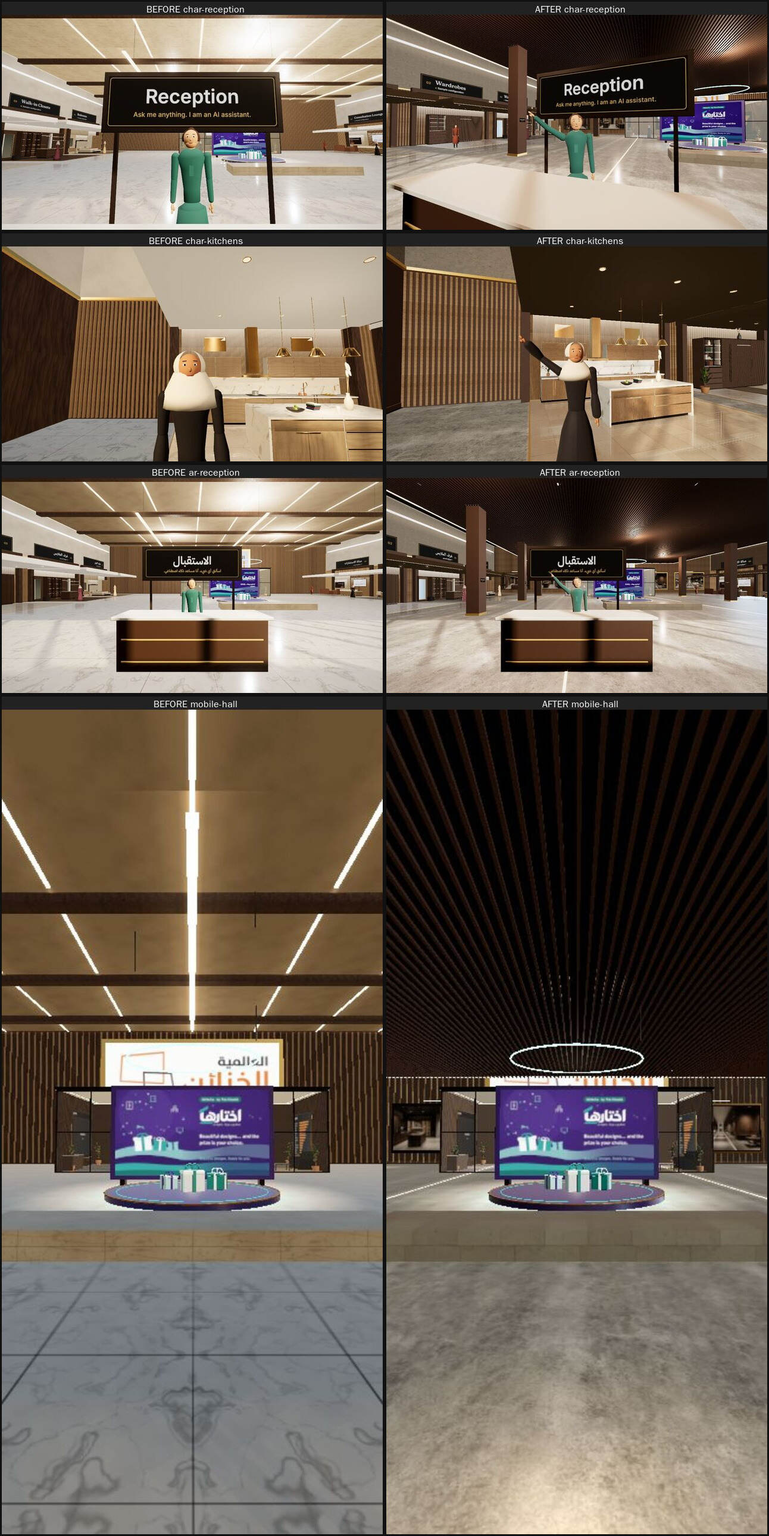
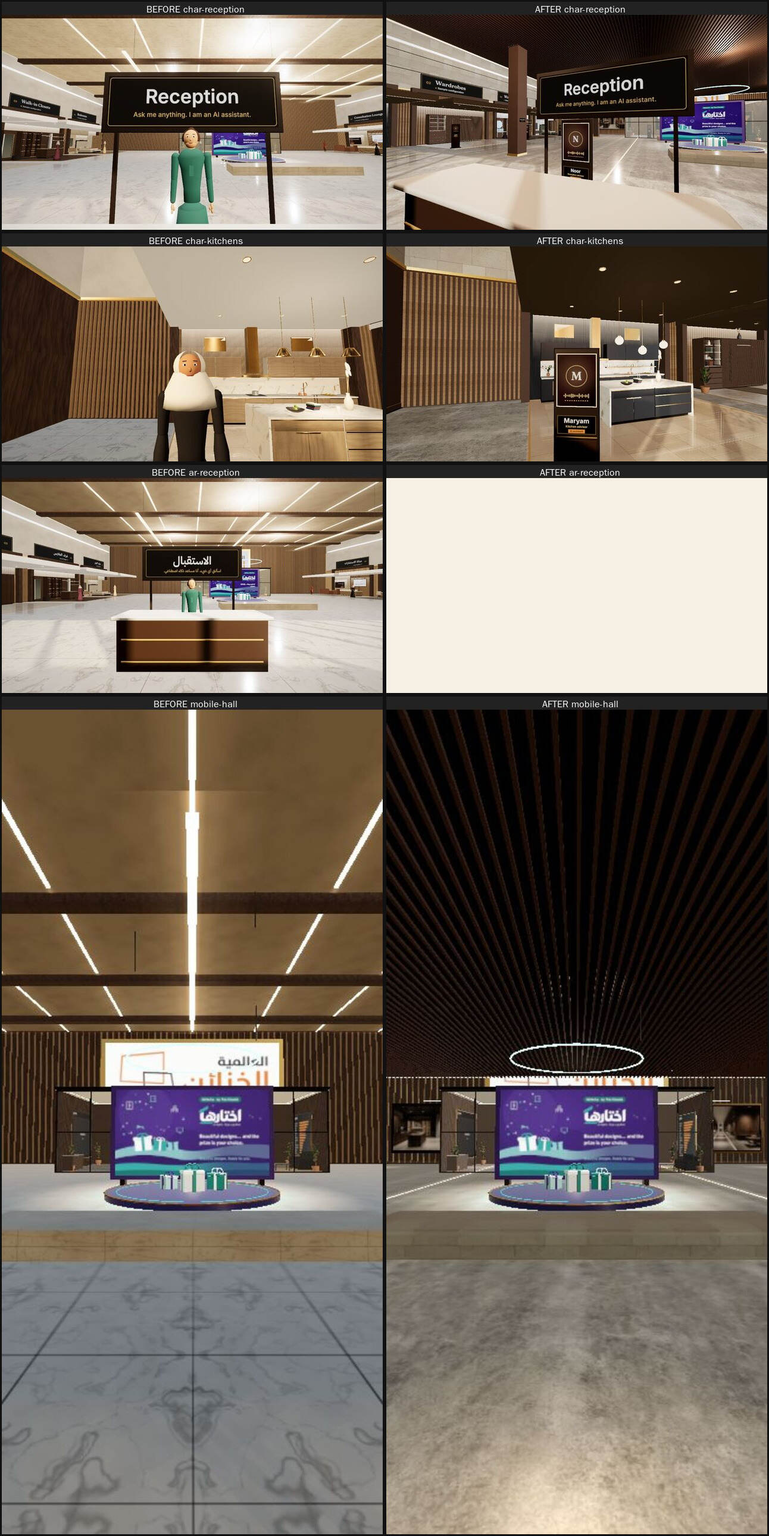
Round 2: kiosk layout, re-shot before/after sheets + desktop tier sheet, REALISM.md round 2 (scores, perf, GLB test recipe, open items), stats
Claude-Session: https://claude.ai/code/session_017ZaR8CiDH3TQygKUjUtw2u

diff --git a/src/showroom3d/staff/kiosk.js b/src/showroom3d/staff/kiosk.js
@@ -8,7 +8,7 @@ import { PALETTE as P, hex, rgba } from '../3d/palette';
 import { portraitUrl } from './config';
 import { FONT } from '../scenes/products/screens';
 
-export const KIOSK = { h: 1.75, w: 0.5, d: 0.08, screen: { w: 0.42, h: 0.56, y: 1.36 }, plate: { w: 0.42, h: 0.2, y: 0.95 }, footprint: { hx: 0.31, hz: 0.18 } };
+export const KIOSK = { h: 1.75, w: 0.5, d: 0.08, screen: { w: 0.42, h: 0.56, y: 1.4 }, plate: { w: 0.42, h: 0.2, y: 0.92 }, footprint: { hx: 0.31, hz: 0.18 } };
 const AR_FONT = "'IBM Plex Sans Arabic','Noto Naskh Arabic',sans-serif";
 const ctx2d = (c) => { try { return c.getContext('2d'); } catch (e) { return null; } };
 const cnv = (w, h) => { const c = document.createElement('canvas'); c.width = w; c.height = h; return c; };
@@ -70,7 +70,7 @@ export function buildKiosk(def, { lang = 'en', q = 1, loader = null } = {}) {
   const sweep = new THREE.Mesh(new THREE.PlaneGeometry(S.w * 0.5, S.h), sweepMat); sweep.position.set(0, S.y, zf + 0.001); sweep.name = 'kiosk-sweep'; sweep.renderOrder = 5; detail.add(sweep);
   const barMat = new THREE.MeshBasicMaterial({ color: new THREE.Color(P.brandOrange).multiplyScalar(1.6), toneMapped: false }), bars = new THREE.InstancedMesh(new THREE.BoxGeometry(0.012, 1, 0.003), barMat, BARS); bars.name = 'kiosk-wave'; bars.frustumCulled = false; detail.add(bars);
   const gc = cnv(q ? 840 : 420, q ? 110 : 55); drawGreet(gc, lang); const greetTex = texOf(gc), greetMat = new THREE.MeshBasicMaterial({ map: greetTex, transparent: true, toneMapped: false, depthWrite: false, opacity: 0 });
-  const greet = new THREE.Mesh(new THREE.PlaneGeometry(PL.w, PL.w * 110 / 840), greetMat); greet.position.set(0, PL.y + PL.h / 2 + 0.035, zf + 0.0005); greet.name = 'kiosk-greet'; detail.add(greet);
+  const greet = new THREE.Mesh(new THREE.PlaneGeometry(PL.w, PL.w * 110 / 840), greetMat); greet.position.set(0, (S.y - S.h / 2 + PL.y + PL.h / 2) / 2, zf + 0.0005);   // centred in the gap between the screen and the name plate greet.name = 'kiosk-greet'; detail.add(greet);
 
   const api = { group: root, kiosk: true, def, label: root.userData.label, meshes: [body, screen, plate, frame, sweep, bars, greet], far: null, farOn: false, awake: 0, hasPortrait: false, portrait: null, joints: {}, scale: 1, q,
     bounds: new THREE.Box3(new THREE.Vector3(-K.footprint.hx, 0, -K.footprint.hz), new THREE.Vector3(K.footprint.hx, K.h, K.footprint.hz)) };

diff --git a/docs/showroom3d/REALISM.md b/docs/showroom3d/REALISM.md
@@ -151,3 +151,71 @@ Each adviser now has a common Arabic first name with her role as subtitle: Noor 
 * Marble, brushed metal, glass and most upholstery are procedural or tinted; product silhouettes are simple extrusions with small bevels.
 * Plants and props are procedural.
 * Characters, see above.
+
+---
+
+# Round 2 (same branch / PR #16)
+
+Owner decisions folded in: advisers become kiosks, signage reads "THE CLOSETS by YAS WOOD", every visit starts in first person. Sheets `screenshots/realism-1..4-*.jpg` were re-shot (the BEFORE column is still the state before round 1) and `realism-6-tiers-desktop.jpg` shows medium (top) and low (bottom) on desktop.
+
+## What changed in round 2
+
+| Area | Change |
+|---|---|
+| Adviser kiosks | `staff/kiosk.js`: a 1.75 m bronze / walnut totem per adviser with a 3:4 portrait screen at eye level, LED frame, name plate (first name, role, orange "AI assistant" label, EN / AR), slow breathing zoom + light sweep when idle, a waveform while she answers, and a greeting line that fades in when the visitor comes near. Nobody walks any more. All staff logic is unchanged (Talk button, T / E, greeting once, chat, take-me-to, VIP hook, colliders, far LOD = 3 draw calls). `staff/config.js`: `STAFF_MODE = 'kiosk'` (default) or `'character'`; `?staff=character` previews the 3D characters, which stay in the repo with the GLB adapter. |
+| Portraits | Loaded from `/yas-bloom/staff/<adviserId>.webp` (3:4, about 768 x 1024, <= 120 KB). **No portrait file exists yet**, so every kiosk currently shows the non-human fallback (monogram on a soft gradient with a waveform); a missing or broken file can never show a broken image. The chat header shows the portrait thumbnail and the note "AI-generated portrait" only once a portrait has really loaded; otherwise the monogram and no note. |
+| Signage | Column plates: "THE CLOSETS / by YAS WOOD" (Arabic "الخزائن / من ياس وود"). Hall back wall and facade: the real logo image is untouched, with "by YAS WOOD" as a separate clean line under it. Loader and intro card: the same byline under the logo. **The Arabic wording "الخزائن من ياس وود" is a draft: owner to confirm.** |
+| Rooms | Kitchens: graphite matt default (finish order changed, ids unchanged), opal globe pendants on brass caps, a lit open shelf with props on the splashback. Walk-in: floating deep-green marble vanity with upstand under a round mirror in a brass ring, vertical LED edge strips on the glass cabinets. Living / lounge: soft rounded sofas and armchairs (no chamfered boxes), bouclé relief, organic looped-wool rugs (oat / rust), sheer floor-to-ceiling curtains, specimen trees in dark planters, mirror-steel and brass drum side tables. Bedroom / studio / lounge / walk-in back walls are travertine slabs. Defaults moved to walnut for door, bedroom, studio and lounge. |
+| Geometry polish | Reception desk and hall benches are soft-edged; hall upper walls are travertine courses with shadow-gap reveals. |
+| Materials | Velvet (walk-in upholstery), leather (studio chairs) and stucco (product plaster) sets are now wired. Procedural additions (ambientCG is still blocked): green marble, terrazzo (available as `M.terrazzo`, not yet assigned to a finish), bouclé. Brass / bronze take twice the environment reflection so they read as metal. Anti-repetition: a two-octave world-space noise modulates the albedo of floors, travertine and plaster on medium / high. |
+| AO and shadows | GTAO bug fixed: its normal pass was drawing additive glows, decals, glass and the planar floor reflector, which blackened the floor. With the fix it is correct but subtle and still about doubles the draw calls, so it **stays opt-in (`?ao=1`)**; the baked AO / contact-shadow decals remain the default. Sun shadow map on high is now 4096 (about 2.5 cm texels in the hall). |
+| Lazy loading | The scene is built on the procedural sets exactly as before the realism pass (same loader time); the CC0 textures and the HDRI download after the first frame and replace the procedural ones in place (same texture objects, so finish swaps keep working). Failure of any file keeps the procedural look. |
+| First person | Every visit starts in first person (a stored third-person choice is no longer restored); the toggle and the visitor avatar are unchanged. |
+
+## GLB character test recipe (characters are parked, the loader path is kept)
+
+1. Put a rigged humanoid at `public/yas-bloom/realism/characters/reception.glb` (Mixamo / Ready Player Me style bone names; a quick free check file is any Mixamo "Y Bot" exported to GLB, for local testing only, not for shipping).
+2. In `src/showroom3d/characters/glbConfig.js` add `reception: { url: '/yas-bloom/realism/characters/reception.glb', height: 1.68 }`.
+3. `npm start`, open `/yas-bloom?debug=1&staff=character`, skip the intro, walk to Reception.
+4. In the console: `__showroom.engine.staff.item('reception').char.glb` must be `true` and `.missingBones` should be `[]`. Check: she stands on the floor at about 1.68 m, faces the entrance, arms hang (not T-pose), the right arm rises on `__showroom.engine.staff.wave('reception')`, the head nods while the chat answers. If a limb bends the wrong way, flip the sign for that role in `wrapRigged().setPose` (the only place that maps pose angles to bones).
+5. A missing file, a non-humanoid file or a decode error must leave the procedural character in place with no console error. Unit tests: `src/showroom3d/__tests__/realism.test.js` (bone mapping, interface, null on missing bones).
+
+## Round 2 scores (viewed; before = before round 1, r1 = after round 1)
+
+| View | Before | r1 | r2 | Notes |
+|---|---|---|---|---|
+| Hall | 4 | 6.5 | 7 | travertine courses, soft benches, kiosks instead of mannequins |
+| Reception | 4 | 6 | 6.5 | rounded desk, kiosk behind it |
+| Kitchens | 5 | 6 | 6.5 | graphite fronts, globe pendants, lit shelf; fronts are still flat slabs |
+| Wardrobes | 5 | 6 | 6 | unchanged apart from materials |
+| Walk-in | 5 | 6 | 6.5 | green marble vanity + round mirror, LED edges |
+| Bedrooms | 5 | 5.5 | 6 | walnut default, travertine wall, curtain, organic rug |
+| Doors | 4.5 | 5.5 | 5.5 | walnut default only |
+| Living | 5 | 6 | 6.5 | rounded sofas, curtains, tree, side tables |
+| Studio | 5 | 5.5 | 5.5 | travertine wall, leather chairs |
+| Lounge | 5 | 6 | 6.5 | rounded sofa, rust rug, curtain, tree |
+| VIP | 5.5 | 5.5 | 5.5 | not edited here |
+| Advisers | 4.5 | 5 | 6 (as kiosks, monogram fallback) | a designed object reads better than a mannequin; real portraits will lift it further |
+| Mobile / low tier | 4 | 5.5 | 5.5 | same look, no post effects |
+
+Reference closeness after round 2: hall aisle 6/10, kitchens 5, walk-in 5, living / lounge 5, travertine walls 5.5. Still missing against the references: fluted island fronts and a dark marble island block, bronze-framed glass doors on every wardrobe run, fabric that really reads as boucle up close, global illumination.
+
+## Round 2 performance (1100 x 620, software GL, all passes of one frame)
+
+| Tier | hall | kitchen | walk-in | living | VIP | worst measured |
+|---|---|---|---|---|---|---|
+| high: draw calls / triangles | 465 / 186k | 474 / 243k | 572 / 268k | 588 / 263k | 273 / 138k | wardrobe 808 / 460k |
+| medium | 379 / 173k | 350 / 194k | 397 / 207k | 401 / 211k | 243 / 133k | |
+| low | 350 / 116k | 297 / 138k | 339 / 150k | 348 / 125k | 214 / 91k | |
+
+Low stays inside the guardrail (under 450 draw calls and 200k triangles). Triangles are LOWER than after round 1 on every tier because ten kiosks replaced ten characters. Textures in GPU memory on high rose to 141 to 183 (kiosk canvases, new material sets). `showroom3d` chunk: 145.0 -> 152.1 kB gzip; `main` +5 bytes. No new shipped assets in round 2 (still 1.96 MB).
+
+## Round 2: not done / open
+
+* Portrait files do not exist yet: kiosks show the monogram fallback.
+* The Arabic brand line needs the owner's confirmation.
+* Door architraves, extra glazing mullions and wall panelling beyond the travertine reveals were not added; skirting exists on the hall back wall, wings and columns only.
+* Terrazzo is built but not assigned to a kitchen finish (the finish list is capped at four per product by an existing test and the names describe white / dark / sand stone).
+* GTAO stays opt-in; soft-shadow change is the 4k sun map only (no PCSS).
+* Curtains have no collider (a visitor can walk through the sheer fabric at the bay edge).
+* The older phase QA scripts (`phase6.js` and friends) assume walking characters for a few checks and were not re-run; the Jest suite and `realism.js` were.
